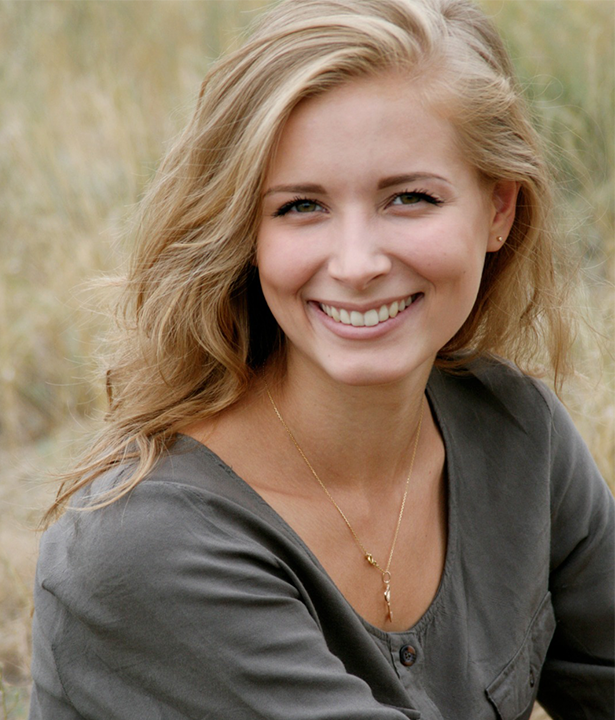
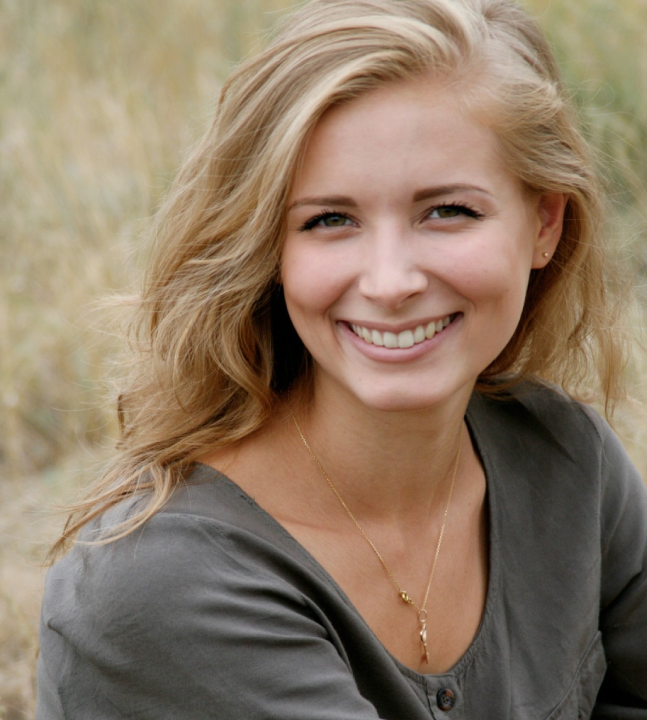
Update candidate card

diff --git a/src/markup/Pages/BrowseCandidateGridCard.js b/src/markup/Pages/BrowseCandidateGridCard.js
@@ -17,6 +17,8 @@ export default function BrowseCandidateGridCard({
   index,
   isWishlistPage,
   fromHomeScreen,
+  objectPosition,
+  hasNoFavIcon,
   noClick,
 }) {
   const [loading, setLoading] = useState(true);
@@ -74,43 +76,50 @@ export default function BrowseCandidateGridCard({
           borderRadius: 15,
           borderColor: "#0275d8",
           paddingBottom: 9,
-          minHeight: "380px",
+          minHeight: "400px",
           maxHeight: "380px",
           fontFamily: "montserrat",
         }}
       >
         <div className="containerImageGrid">
-          {state?.userDetails?.company_name && (
-            <label
-              onClick={() => {
-                console.log("tetsings ss cicic");
-                onClickLike(item);
-              }}
-              className="like-btn heartBtn zIndexHeart"
-            >
-              <input
-                type="checkbox"
-                onClick={() => {
-                  // console.log("tetsings ss cicic");
-                  onClickLike(item);
-                }}
-                defaultChecked={isLiked}
-              />
-              <span className="checkmark">
-                {isLiked ? (
-                  <i className="iconPosDet fa fa-heart" aria-hidden="true"></i>
-                ) : (
-                  <i
-                    className="iconPosDet fa fa-heart-o"
-                    aria-hidden="true"
-                  ></i>
-                )}
-              </span>
-            </label>
+          {!hasNoFavIcon && (
+            <>
+              {state?.userDetails?.company_name && (
+                <label
+                  onClick={() => {
+                    console.log("tetsings ss cicic");
+                    onClickLike(item);
+                  }}
+                  className="like-btn heartBtn zIndexHeart"
+                >
+                  <input
+                    type="checkbox"
+                    onClick={() => {
+                      // console.log("tetsings ss cicic");
+                      onClickLike(item);
+                    }}
+                    defaultChecked={isLiked}
+                  />
+                  <span className="checkmark">
+                    {isLiked ? (
+                      <i
+                        className="iconPosDet fa fa-heart"
+                        aria-hidden="true"
+                      ></i>
+                    ) : (
+                      <i
+                        className="iconPosDet fa fa-heart-o"
+                        aria-hidden="true"
+                      ></i>
+                    )}
+                  </span>
+                </label>
+              )}
+            </>
           )}
 
           {item?.video ? (
-            <video className="card-img-top" width="auto" height="165" controls>
+            <video className="card-img-top" width="auto" height="190" controls>
               <source src={item?.video} type="video/mp4" />
               <source src={item?.video} type="video/wmv" />
               <source src={item?.video} type="video/mkv" />
@@ -127,6 +136,8 @@ export default function BrowseCandidateGridCard({
               }
               alt="Card image cap"
               style={{
+                objectPosition: objectPosition ? objectPosition : "inherit",
+                height: "190px",
                 width: "100%",
                 objectFit: "cover",
               }}

diff --git a/src/markup/Pages/Homepage1.js b/src/markup/Pages/Homepage1.js
@@ -90,6 +90,8 @@ export default function Homepage() {
     // Naomi
     {
       address: "street 123",
+      objectPosition: "top",
+
       city_id: 48184,
       country_id: 232,
       disability: false,
@@ -332,6 +334,8 @@ export default function Homepage() {
                       ) : (
                         HomeProfileCards.map((item, index) => (
                           <BrowseCandidateGridCard
+                            hasNoFavIcon={true}
+                            objectPosition={item?.objectPosition}
                             key={index}
                             noClick={true}
                             fromHomeScreen={true}

diff --git a/src/markup/Pages/BrowsejobgridCard.js b/src/markup/Pages/BrowsejobgridCard.js
@@ -24,7 +24,12 @@ import ReactPlayer from "react-player";
 
 var bnr = require("./../../images/banner/bnr1.jpg");
 
-export default function BrowsejobgridCard({ item, index, isWishlistPage }) {
+export default function BrowsejobgridCard({
+  item,
+  index,
+
+  isWishlistPage,
+}) {
   const state = useSelector((state) => state);
   const dispatch = useDispatch();
 
